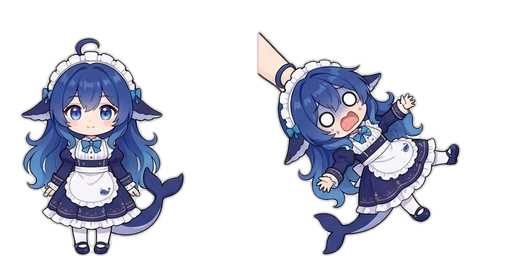
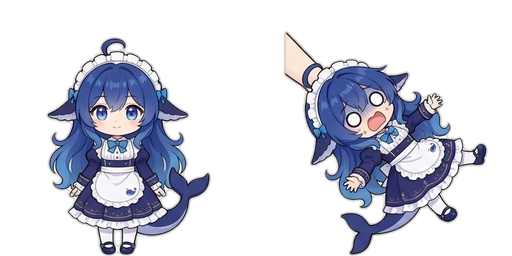
fix(assets): 重叠/质心配准校正帧间平移 + working 放慢
- 用户建议落地：逐帧单独裁剪 + 帧间对齐（先重叠最大化，后改质心差+±2px上限——平峰问题更稳）
- 诊断：working 帧间重叠 96~98%，质心仅 1.3px 偏移（已校正）；残余'抖'=模型姿势本身的细微差异在 250ms 步进下闪现
- 对策：working fps 4→3（333ms/帧，姿势变化更从容）；质心配准保留真实动作位移（celebrate 跳跃/walk 步幅 >2px 不压平）
- 验证：web 无崩溃、冒烟 OK

diff --git a/scripts/slice-sheet.py b/scripts/slice-sheet.py
@@ -412,12 +412,12 @@ def build_sheet_from_comps(band, comps, state_centers, my_center, size, row_y0, 
     if hmax <= 0:
         return None, 0
     s = (size * scale) / hmax
-    # 固定窗口配准（标准 sprite 注册）：每帧裁"以自己角色为中心的固定尺寸窗口"。
-    # - 窗口尺寸跨帧一致（左右留白 L/R、上下留白 T/B 取各帧相对角色的最大值）→ 无裁剪边界抖动；
-    # - 窗口中心随各自角色 → 角色本体钉死（锚点配准），装饰件围绕浮动。
-    char_w_max = max(bb[2] - bb[0] for _, bb, _ in my_frames)
+    # 逐帧单独裁剪 + 重叠最大化配准（用户建议：分别比较、计算重叠）。
+    # bbox 中心锚定在不对称姿势下会错位（头一歪 bbox 中心就移、锚定反而推偏身体）；
+    # 改为以帧 0 为参考，每帧在 ±SHIFT 内平移使 alpha 重叠最大——对齐实际内容而非包围盒。
     char_h_max = max(bb[3] - bb[1] for _, bb, _ in my_frames)
-    L = R = T = B = 0
+    s = (size * scale) / char_h_max
+    crops = []
     for i, (a, cbb, _) in enumerate(my_frames):
         ex0, ey0, ex1, ey1 = cbb
         for dbb in attach[i]:
@@ -425,31 +425,40 @@ def build_sheet_from_comps(band, comps, state_centers, my_center, size, row_y0, 
             ey0 = min(ey0, dbb[1])
             ex1 = max(ex1, dbb[2])
             ey1 = max(ey1, dbb[3])
-        cx = (cbb[0] + cbb[2]) / 2
-        cy1 = cbb[3]
-        L = max(L, cx - ex0)
-        R = max(R, ex1 - cx)
-        T = max(T, cbb[1] - ey0)
-        B = max(B, ey1 - cy1)
-    s = (size * scale) / char_h_max
-    norm = []
-    for i, (a, cbb, _) in enumerate(my_frames):
-        cx = (cbb[0] + cbb[2]) / 2
-        cy1 = cbb[3]
-        w0 = max(0, round(cx - L))
-        w1 = min(band.width, round(cx + R))
-        h0 = max(0, round(cy1 - char_h_max - T))
-        h1 = min(band.height, round(cy1 + B))
-        f = band.crop((w0, h0, w1, h1))
+        f = band.crop((ex0, ey0, ex1, ey1))
         fw = max(1, round(f.width * s))
         fh = max(1, round(f.height * s))
         if f.size != (fw, fh):
             f = f.resize((fw, fh), Image.LANCZOS)
-        # 角色中心 x 在窗口内 = L + char_w/2；角色底在窗口内 = T + char_h
-        char_cx_in = (L + (cbb[2] - cbb[0]) / 2) * s
-        char_bot_in = (T + (cbb[3] - cbb[1])) * s
-        px = round(128 - char_cx_in)
-        py = round(size - char_bot_in)
+        crops.append(f)
+    SHIFT = 12
+    tw = max(f.width for f in crops) + 2 * SHIFT
+    th = max(f.height for f in crops) + 2 * SHIFT
+
+    def to_mask(f):
+        c = Image.new('L', (tw, th), 0)
+        c.paste(f.getchannel('A'), ((tw - f.width) // 2, (th - f.height) // 2))
+        return np.asarray(c) > 60
+
+    def mask_centroid(mask):
+        ys, xs = np.nonzero(mask)
+        return (ys.mean(), xs.mean()) if len(ys) else (0.0, 0.0)
+
+    ref_cent = mask_centroid(to_mask(crops[0]))
+    offsets = [(0, 0)]
+    for f in crops[1:]:
+        m = to_mask(f)
+        cy, cx = mask_centroid(m)
+        # 质心差校正，幅度上限 ±2px：小抖动（≤2px）被校正；
+        # 真正的动作位移（跳跃/步幅 >2px）保留，不压平。
+        dy = int(np.clip(round(ref_cent[0] - cy), -2, 2))
+        dx = int(np.clip(round(ref_cent[1] - cx), -2, 2))
+        offsets.append((dx, dy))
+    norm = []
+    for i, f in enumerate(crops):
+        dx, dy = offsets[i]
+        px = 128 - f.width // 2 + dx
+        py = size - f.height + dy
         px = min(px, size - f.width)
         py = min(py, size - f.height)
         px = max(px, 0)
